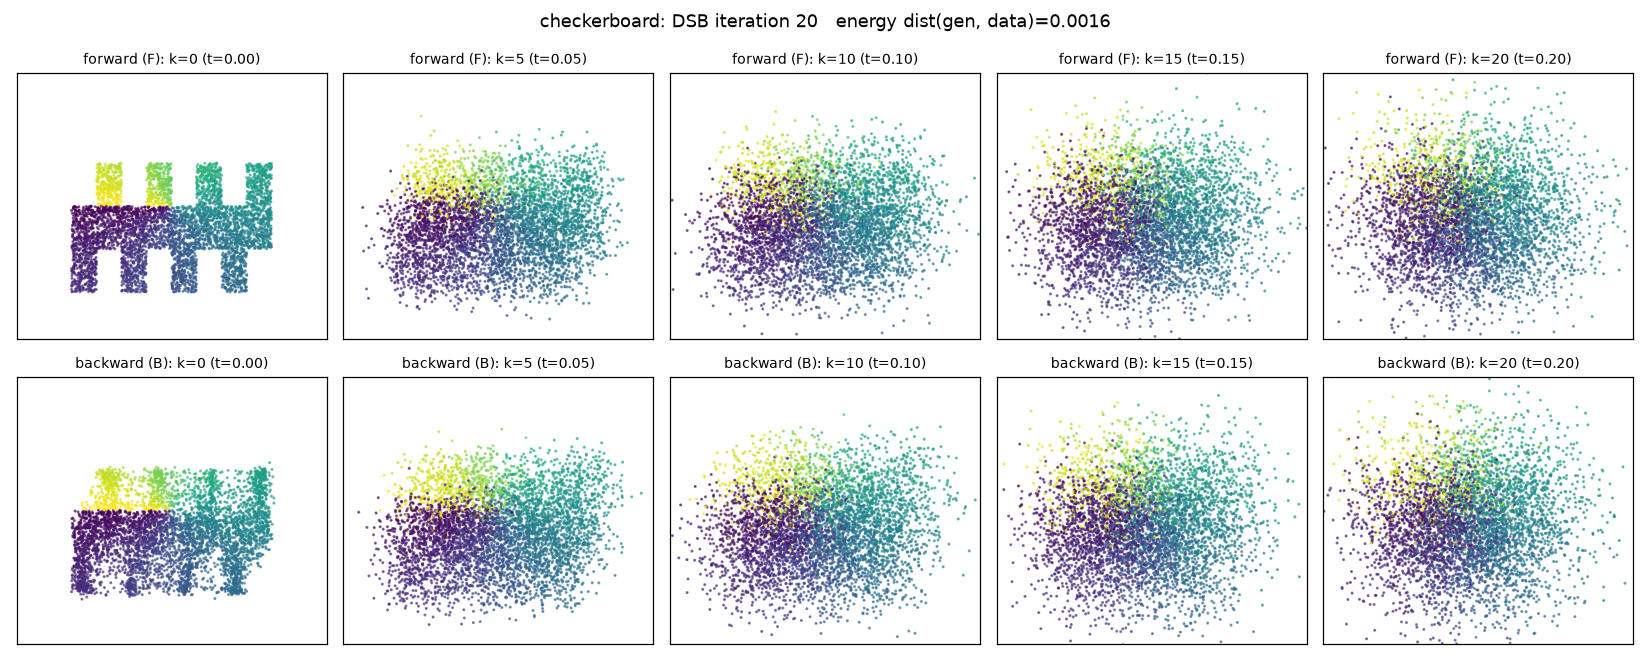
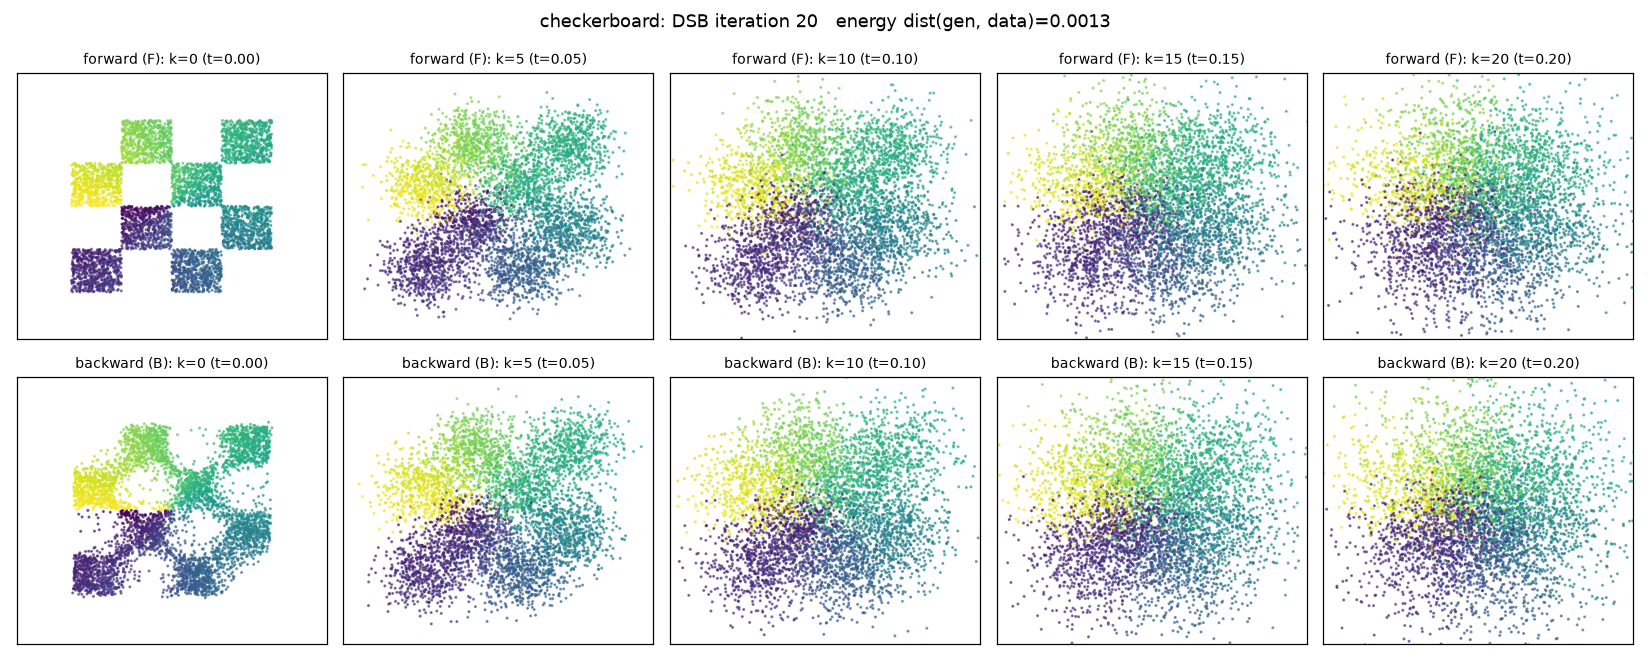
Checkerboard results

diff --git a/README.md b/README.md
@@ -111,7 +111,7 @@ about 1e-3):
 | moons | 0.020 | 0.0028 |
 | circles | 0.0087 | 0.0028 |
 | S-curve | 0.093 | 0.0058 |
-| checkerboard | see `figures/` | |
+| checkerboard | 0.0099 | 0.0013 |
 
 ### 3. CIFAR-10
 
